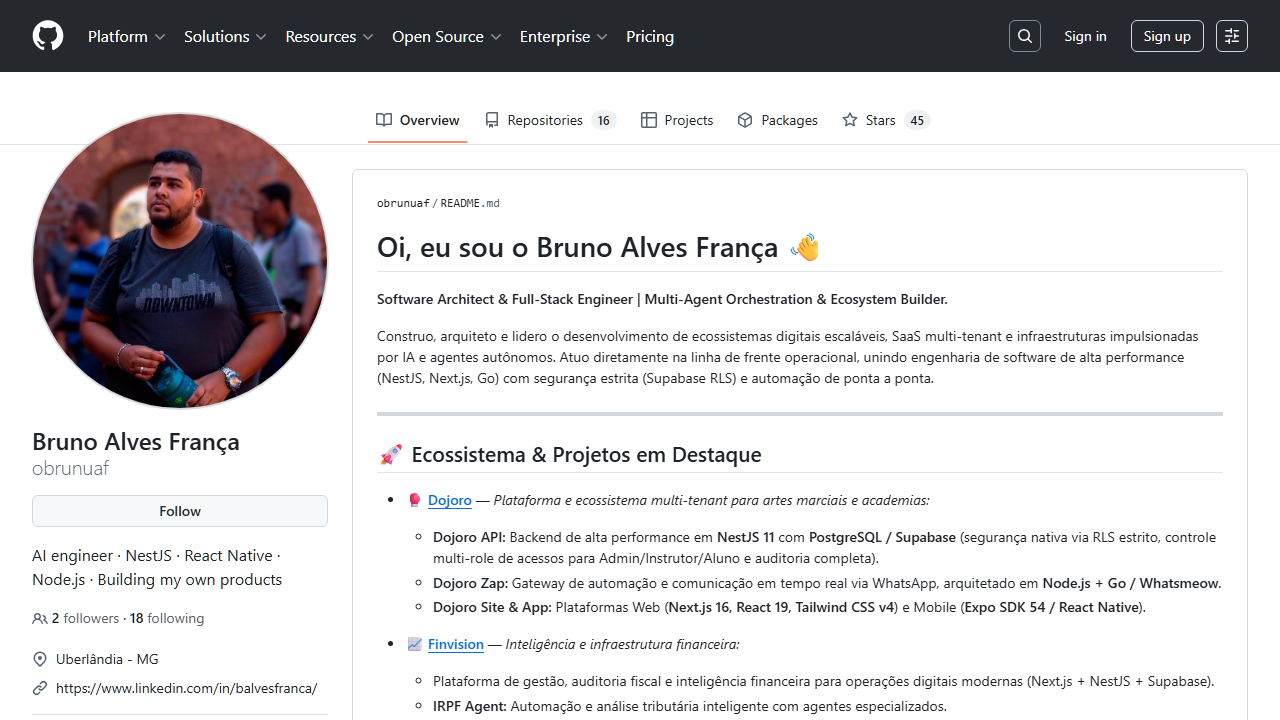
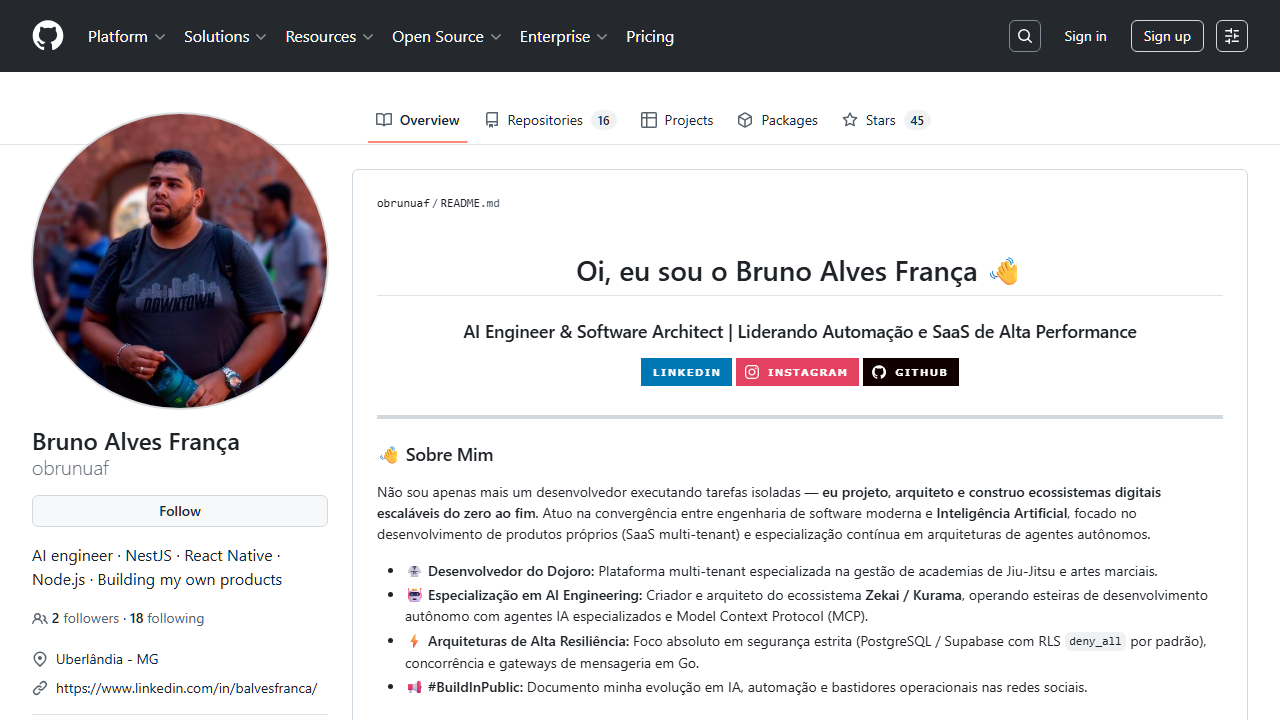
feat: implementa estrutura do Aryaman no README e adiciona animação do Snake (Platane/snk)

diff --git a/tests/hello.spec.ts b/tests/hello.spec.ts
@@ -7,25 +7,35 @@ test.describe('Verificação do Perfil Executivo @obrunuaf — Dojoro & AI Engin
     const readmePath = path.join(__dirname, '..', 'README.md');
     const content = fs.readFileSync(readmePath, 'utf-8');
 
-    // 1. Saudação inicial
-    expect(content).toContain('Oi, eu sou o Bruno Alves França 👋');
+    // 1. Saudação inicial e Banner Waving
+    expect(content).toContain('capsule-render');
+    expect(content).toContain('Bruno%20Alves%20França');
+    expect(content).toContain('readme-typing-svg');
 
-    // 2. Título executivo
-    expect(content).toContain('AI Engineer & Software Architect');
-
-    // 3. Foco em Dojoro (SaaS Jiu-Jitsu)
+    // 2. Foco em Dojoro (SaaS Jiu-Jitsu)
     expect(content).toContain('Dojoro');
     expect(content).toContain('academias de Jiu-Jitsu');
     expect(content).toContain('X-Academia-Id');
     expect(content).toContain('Whatsmeow');
 
-    // 4. Especialização em AI Engineering & Orquestração Multi-Agente
+    // 3. Especialização em AI Engineering & Orquestração Multi-Agente
     expect(content).toContain('AI Engineering');
     expect(content).toContain('Zekai');
     expect(content).toContain('Kurama');
-    expect(content).toContain('Model Context Protocol (MCP)');
+    expect(content).toContain('Model Context Protocol');
+    expect(content).toContain('MCP');
 
-    // 5. Redes sociais (LinkedIn e Instagram)
+    // 4. Outros Projetos e Ecossistema (Estrutura Aryaman)
+    expect(content).toContain('Finvision / Kairo');
+    expect(content).toContain('MRTCOBDOC-AI');
+    expect(content).toContain('Bip-Automation');
+    expect(content).toContain('Paperclip');
+
+    // 5. Animação do Snake (TheDeveloperDoctor)
+    expect(content).toContain('github-contribution-grid-snake');
+    expect(content).toContain('github-contribution-grid-snake-dark.svg');
+
+    // 6. Redes sociais (LinkedIn e Instagram)
     expect(content).toContain('linkedin.com/in/balvesfranca/');
     expect(content).toContain('instagram.com/obrunuaf/');
   });

diff --git a/README.md b/README.md
@@ -1,12 +1,13 @@
 <div align="center">
 
-# Oi, eu sou o Bruno Alves França 👋
+<img src="https://capsule-render.vercel.app/api?type=waving&color=0:0A0F1A,100:3B82F6&height=180&section=header&text=Bruno%20Alves%20França&fontSize=42&fontColor=ffffff&animation=fadeIn&desc=AI%20Engineer%20%7C%20Software%20Architect&descAlignY=65&descSize=18" width="100%"/>
 
-### **AI Engineer & Software Architect | Liderando Automação e SaaS de Alta Performance**
+<img src="https://readme-typing-svg.demolab.com?font=Fira+Code&size=20&pause=1000&color=3B82F6&center=true&vCenter=true&width=650&lines=Building+Dojoro+%E2%80%94+BJJ+Academy+SaaS;Creator+of+Zekai+%26+Kurama+%E2%80%94+AI+Ecosystem;AI+Engineer+%7C+Multi-Agent+Orchestration;%23BuildInPublic+%E2%80%94+Sharing+Dev+Journey" alt="Typing SVG" />
 
-[![LinkedIn](https://img.shields.io/badge/LinkedIn-0077B5?style=for-the-badge&logo=linkedin&logoColor=white)](https://www.linkedin.com/in/balvesfranca/)
-[![Instagram](https://img.shields.io/badge/Instagram-E4405F?style=for-the-badge&logo=instagram&logoColor=white)](https://www.instagram.com/obrunuaf/)
-[![GitHub](https://img.shields.io/badge/GitHub-100000?style=for-the-badge&logo=github&logoColor=white)](https://github.com/obrunuaf)
+![Brasil](https://img.shields.io/badge/📍-Brasil-orange?style=flat-square)
+![Status](https://img.shields.io/badge/Status-Building_Dojoro_%26_AI_SaaS-brightgreen?style=flat-square)
+[![LinkedIn](https://img.shields.io/badge/LinkedIn-balvesfranca-0077B5?style=flat-square&logo=linkedin&logoColor=white)](https://www.linkedin.com/in/balvesfranca/)
+[![Instagram](https://img.shields.io/badge/Instagram-obrunuaf-E4405F?style=flat-square&logo=instagram&logoColor=white)](https://www.instagram.com/obrunuaf/)
 
 </div>
 
@@ -14,38 +15,56 @@
 
 ### 👋 Sobre Mim
 
-Não sou apenas mais um desenvolvedor executando tarefas isoladas — **eu projeto, arquiteto e construo ecossistemas digitais escaláveis do zero ao fim**. Atuo na convergência entre engenharia de software moderna e **Inteligência Artificial**, focado no desenvolvimento de produtos próprios (SaaS multi-tenant) e especialização contínua em arquiteturas de agentes autônomos.
+Não sou apenas mais um desenvolvedor codando tickets — eu **projeto e construo ecossistemas reais** do zero ao fim. Atuo na convergência entre engenharia de software de alta performance e **Inteligência Artificial**, liderando o desenvolvimento de produtos próprios e especialização em arquiteturas multi-agente.
 
-* 🥋 **Desenvolvedor do Dojoro:** Plataforma multi-tenant especializada na gestão de academias de Jiu-Jitsu e artes marciais.
-* 🤖 **Especialização em AI Engineering:** Criador e arquiteto do ecossistema **Zekai / Kurama**, operando esteiras de desenvolvimento autônomo com agentes IA especializados e Model Context Protocol (MCP).
-* ⚡ **Arquiteturas de Alta Resiliência:** Foco absoluto em segurança estrita (PostgreSQL / Supabase com RLS `deny_all` por padrão), concorrência e gateways de mensageria em Go.
-* 📢 **#BuildInPublic:** Documento minha evolução em IA, automação e bastidores operacionais nas redes sociais.
+- 🥋 Liderando e desenvolvendo o **Dojoro** — plataforma multi-tenant e ecossistema de gestão para academias de Jiu-Jitsu e artes marciais
+- 🤖 **Especialização em AI Engineering:** Criador do hub canônico **Zekai & Kurama** (`AGENTS.md`), orquestrando squads autônomos com 13 papéis especializados
+- ⚡ Arquiteto de pipelines **Zero-Human** com integração ao **Paperclip**, servidores MCP (Model Context Protocol) e automação contínua de testes
+- 🏢 Liderando a implantação e adaptação de infraestrutura de agentes IA e observabilidade no setor corporativo (Martins Distribuidora)
+- 🌱 Contribuindo e operando ecossistemas de alta segurança (PostgreSQL / Supabase com RLS `deny_all`, concorrência em Go)
+- 📢 **#BuildInPublic** nas redes sociais — documentando bastidores de arquitetura, decisões técnicas e evolução em IA
 
 ---
 
 ### 🚀 Projeto em Destaque — Dojoro
 
-> **Plataforma e ecossistema multi-tenant para gestão integral de academias de Brazilian Jiu-Jitsu (BJJ) e artes marciais.**
+> Plataforma e ecossistema multi-tenant para gestão integral de academias de Brazilian Jiu-Jitsu (BJJ) e artes marciais.
 
-O Dojoro resolve a fragmentação da gestão de alunos, graduações, treinos e financeiro através de uma arquitetura limpa e altamente segura:
-* **Mecanismo Multi-Tenant Real:** Isolamento estrito por academia via header customizado (`X-Academia-Id`) e controle de acesso baseado em papéis (Admin, Instrutor, Aluno).
-* **Dojoro Zap (Gateway de Automação):** Comunicação em tempo real e automação via WhatsApp construída com **Node.js + Go (Whatsmeow)** para notificações de treinos e graduações.
-* **Stack de Alta Performance:** Backend em **NestJS 11** com **PostgreSQL / Supabase** (Argon2id para hashing, RLS nativo e auditoria). Frontend em **Next.js 16** (Tailwind v4) e app mobile em **React Native / Expo SDK 54**.
+- 🥋 **Mecanismo Multi-Tenant Real:** Isolamento estrito por academia via header customizado (`X-Academia-Id`) e controle de acesso baseado em papéis (Admin, Instrutor, Aluno)
+- ⚡ **Dojoro Zap:** Gateway de automação e comunicação em tempo real via WhatsApp construído com **Node.js + Go (Whatsmeow)**
+- 🎨 Interface web ultra moderna em **Next.js 16** (Tailwind v4) e aplicativo mobile nativo em **React Native / Expo SDK 54**
+- 🛡 Segurança estrita com **PostgreSQL / Supabase** (Argon2id para hashing, RLS nativo e auditoria contínua)
 
----
-
-### 🔬 Especialização em AI & Ecossistema Zekai
-
-Aprofundando em **AI Engineering e Orquestração Multi-Agente**, transformo fluxos tradicionais de desenvolvimento em esteiras inteligentes:
-* **Zekai & Kurama:** Hub canônico de governança fundamentado no padrão da Linux Foundation (`AGENTS.md`), orquestrando squads autônomos com 13 papéis especializados (Orquestrador, Arquiteto de Soluções, Sentinel, QA, etc.).
-* **Pipelines Autônomos (Zero-Human):** Integração com **Paperclip**, Kiro CLI, Cursor Rules e servidores MCP para execução contínua de testes, refatorações e revisões de código sem perda de contexto.
-* **Infraestrutura Dedicada:** Servidores e vaults otimizados para IA na nuvem (VPS Hetzner ARM) com isolamento total de billing e tokens.
+[Ver Organização →](https://github.com/obrunuaf)  |  `NestJS 11` `Next.js 16` `React Native` `Go` `PostgreSQL` `WhatsApp API`
 
 ---
 
-### 🛠 Stack Técnica Principal
+### 🧩 Outros Projetos & Ecossistema
 
-* **Engenharia Core & Backend:** TypeScript, Node.js, NestJS 11, Go, Python, PostgreSQL, Supabase (*FORCE RLS, Realtime*).
-* **Web & Mobile:** Next.js 16, React 19, Tailwind CSS v4, Lucide Icons, React Native / Expo SDK 54.
-* **Inteligência Artificial & Automação:** Model Context Protocol (MCP), Orquestração Multi-Agente (*Opus 4.8, Gemini 3, Sonnet 4.5*), Automação de Workflows e Obsidian Vaults.
-* **Qualidade & CI/CD:** Playwright (*Auditoria Visual e Testes E2E em CI/CD*), Docker, Vitest, Git Workflows.
+[Zekai & Kurama](https://github.com/obrunuaf/zekai)
+`Linux Foundation AGENTS.md` `Multi-Agent Squads` `Opus 4.8` `MCP Registry`
+
+[Finvision / Kairo](https://github.com/obrunuaf/finvision-web)
+`Next.js 16` `NestJS 11` `Supabase RLS` `IRPF AI Agent`
+
+[MRTCOBDOC-AI](https://github.com/obrunuaf/MRTCOBDOC-AI)
+`Corporate AI Onboarding` `Cursor Rules` `Vault Obsidian` `AI Governance`
+
+[Bip-Automation](https://github.com/obrunuaf/bip-automation)
+`Node.js` `React` `Vite` `#BuildInPublic Automation`
+
+[Paperclip](https://github.com/obrunuaf/paperclip)
+`Zero-Human Pipelines` `Open Source AI Orchestration`
+
+---
+
+<div align="center">
+
+<!-- 🐍 Gerado pelo workflow .github/workflows/snake.yml -->
+<picture>
+  <source media="(prefers-color-scheme: dark)" srcset="https://raw.githubusercontent.com/obrunuaf/obrunuaf/output/github-contribution-grid-snake-dark.svg" />
+  <source media="(prefers-color-scheme: light)" srcset="https://raw.githubusercontent.com/obrunuaf/obrunuaf/output/github-contribution-grid-snake.svg" />
+  <img alt="Contribution snake animation" src="https://raw.githubusercontent.com/obrunuaf/obrunuaf/output/github-contribution-grid-snake.svg" width="100%" />
+</picture>
+
+</div>
